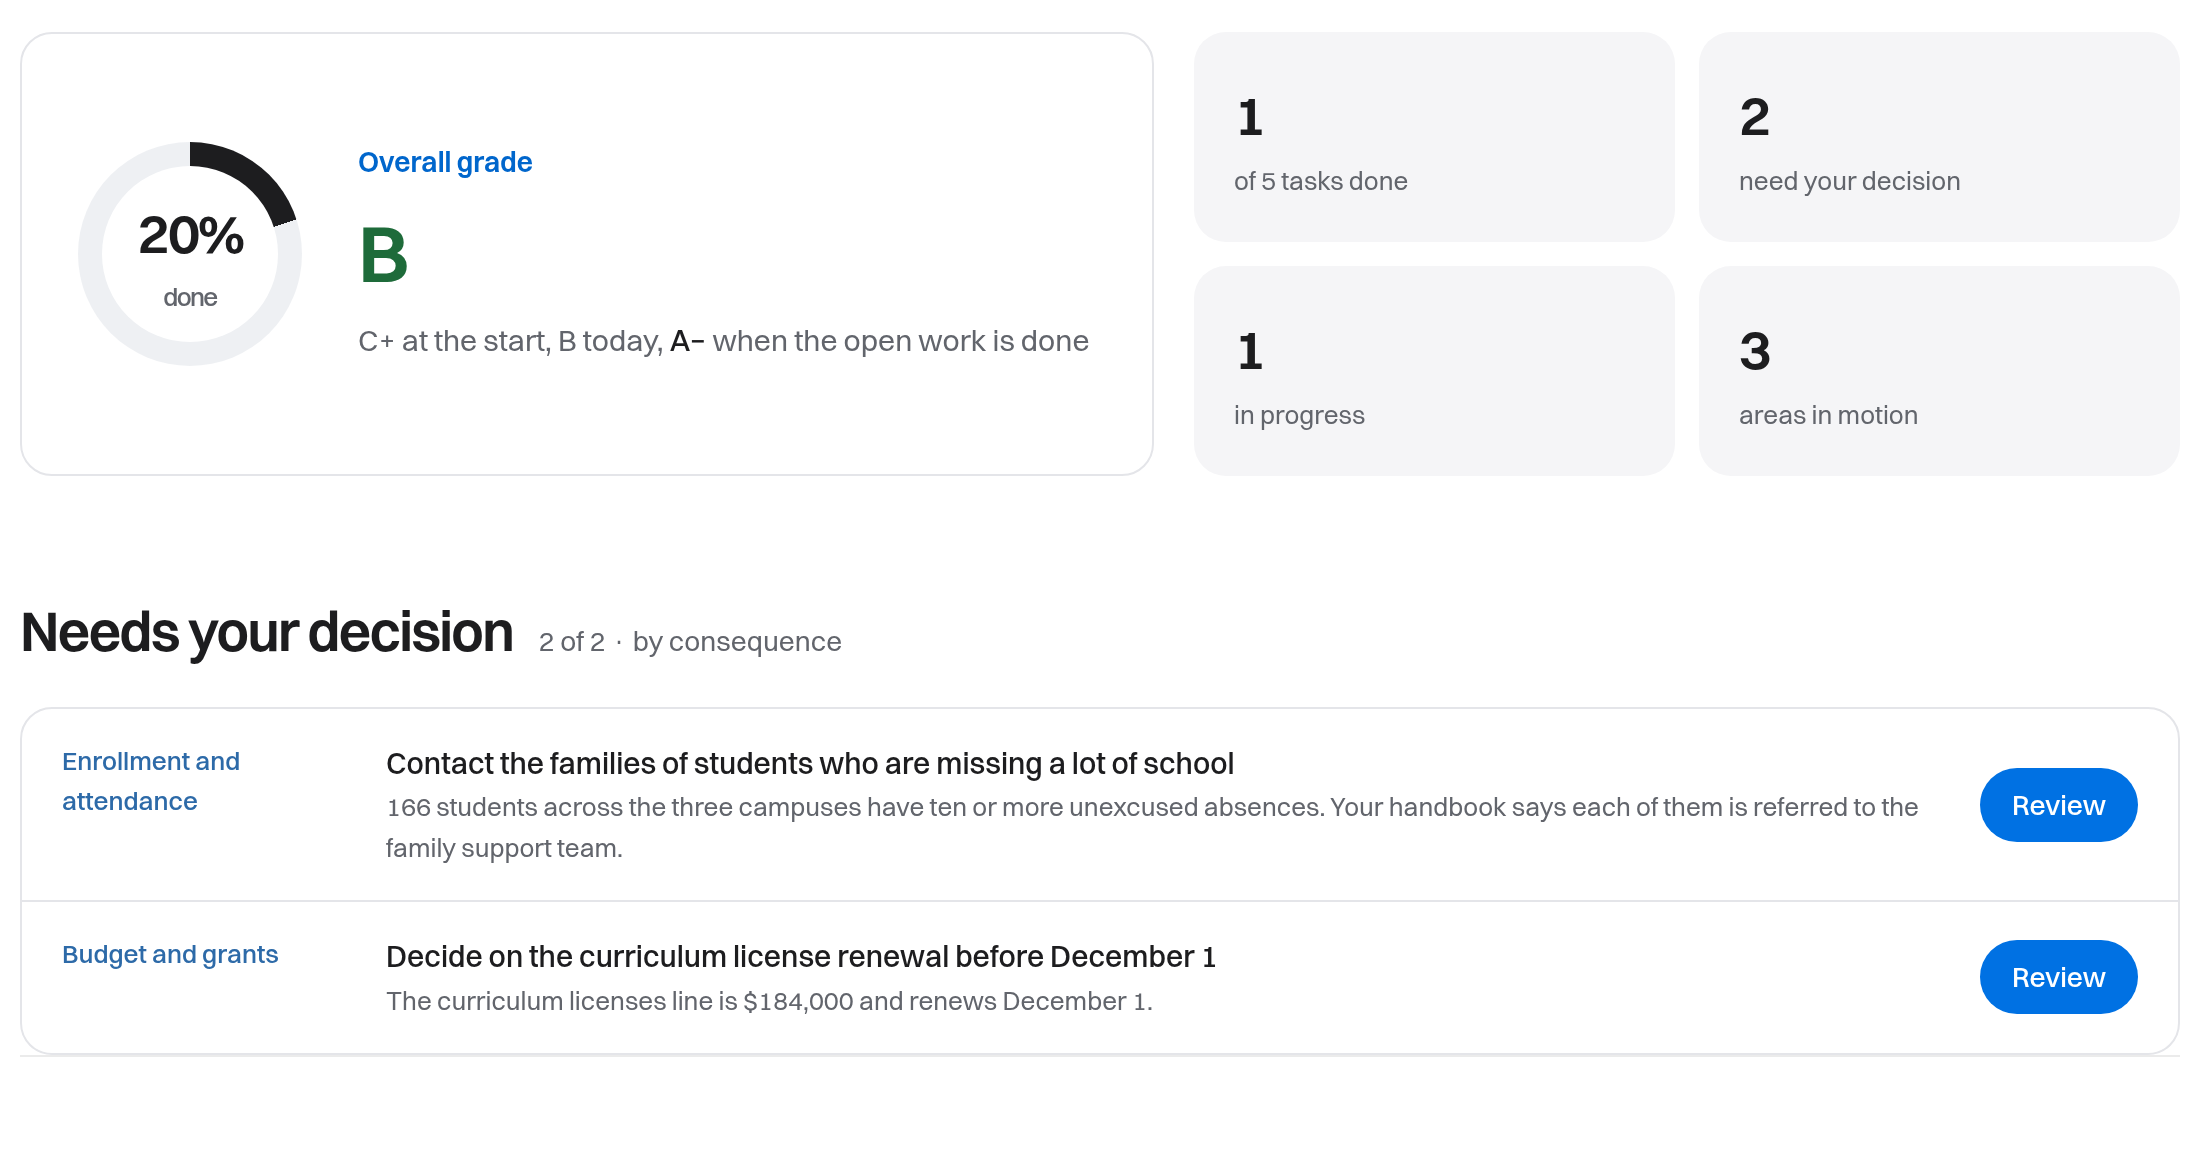
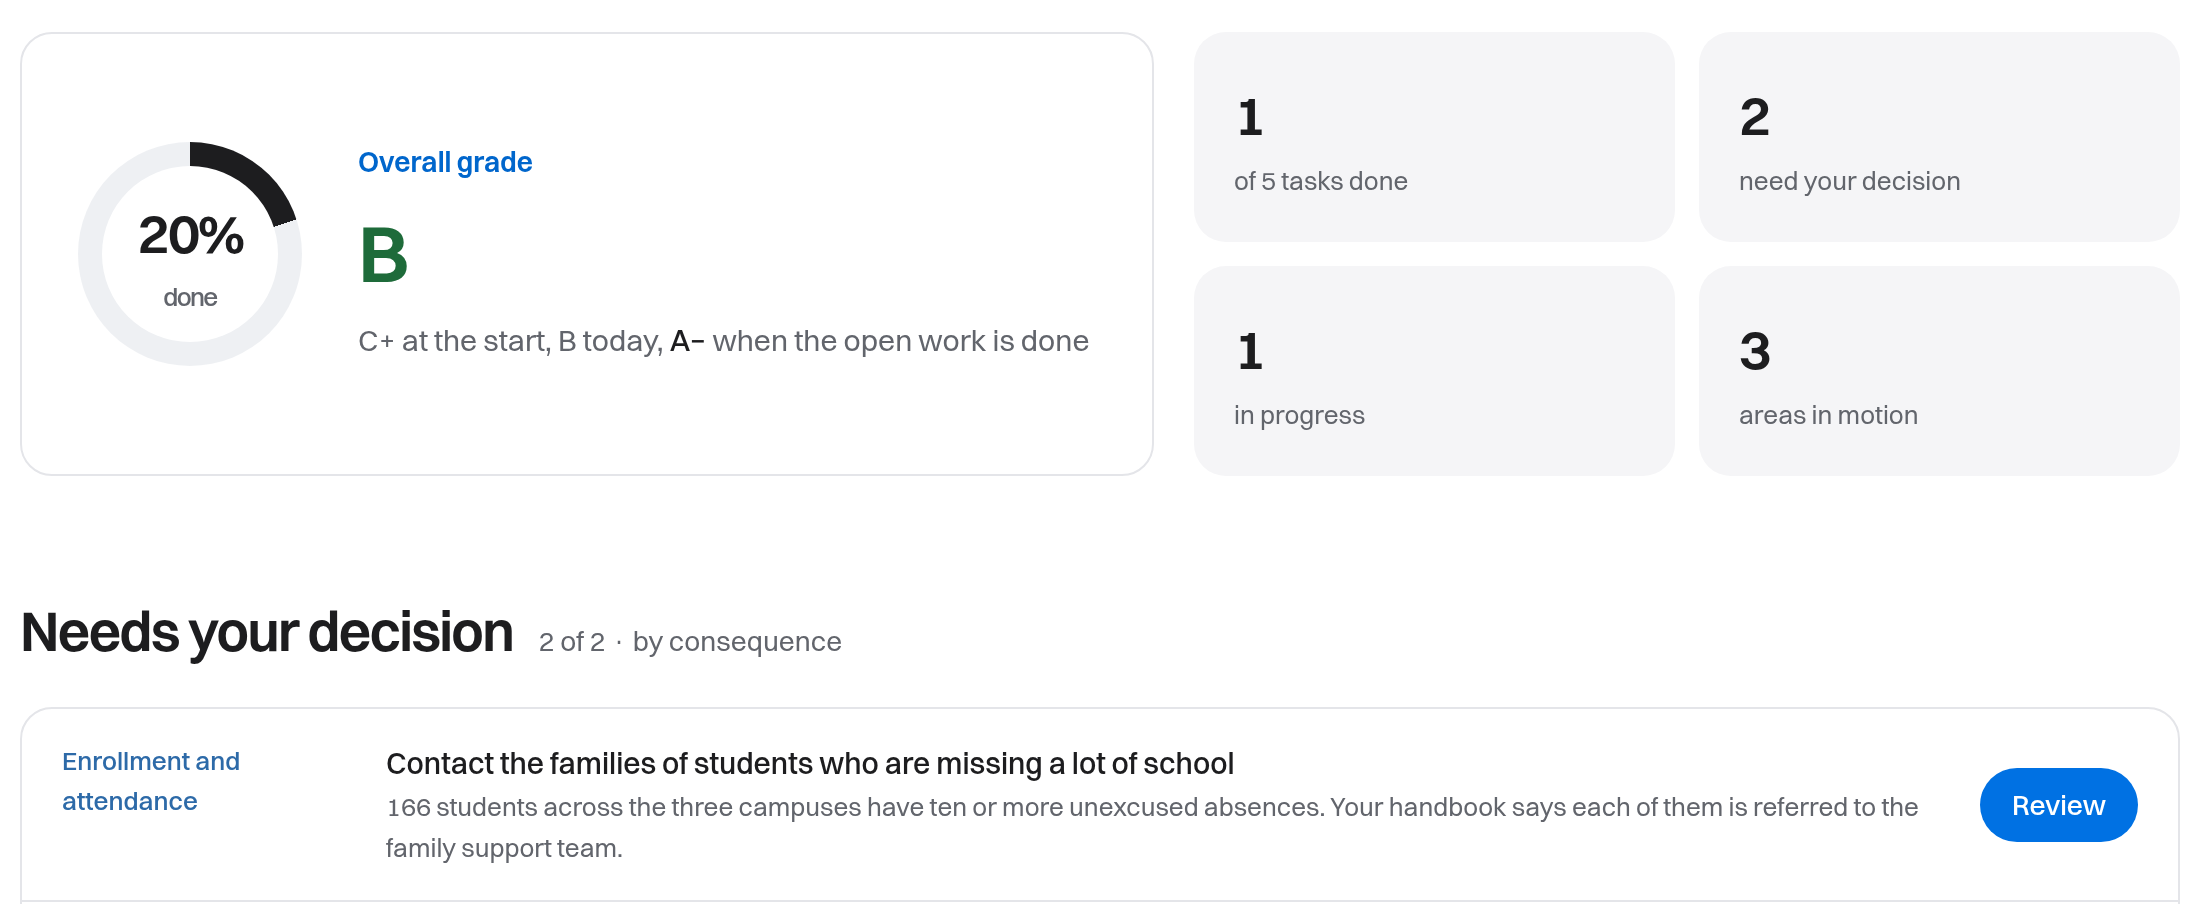
Operating system: crop the workstreams capture to the first decision

diff --git a/public/site/operating-system.html b/public/site/operating-system.html
@@ -5,7 +5,7 @@
 
 <section class="os-hub" aria-labelledby="hub-h"><div class="wrap"><h2 id="hub-h">Each system knows a part and Arthur holds the whole</h2><div class="os-hub-grid"><ul class="os-src" aria-label="Your systems"><li><b>CRM</b><span>Who the customer is</span></li><li><b>Billing</b><span>What they owe, and since when</span></li><li><b>Support desk</b><span>What is open with them</span></li><li><b>Contracts</b><span>When it renews, who owns it</span></li><li><b>Work orders and inventory</b><span>What is open, what is on hand</span></li></ul><div class="os-whole"><p class="os-whole-k">What Arthur holds</p><p class="answer">One customer, with its invoices, tickets, contract and open orders in one place, and the source behind each line.</p></div></div></div></section>
 
-<section class="system-section os-portal" id="system"><div class="wrap"><div class="section-heading"><h2>See what is moving and what needs you</h2><p>This is the Workstreams page in the client portal: an overall grade, the counts, and the decisions waiting for a person.</p></div><figure class="portal-shot native"><picture><source media="(max-width:700px)" srcset="/site/assets/portal/portal-workstreams-390.png" width="375" height="765"><img src="/site/assets/portal/portal-workstreams-2x.png" width="1095" height="585" alt="The Workstreams page of the LOVELEEDAY client portal, with an overall progress ring, a letter grade and counts of tasks done, in progress and waiting for a decision." loading="lazy"></picture><div class="ps-zoom" aria-hidden="true"><span>What needs you</span><p>Two decisions need you, listed by consequence. The overall grade has moved from C plus to B.</p><small>Workstreams page, example data</small></div><figcaption>The Workstreams page in the LOVELEEDAY client portal, as a charter network sees it. Every record in this workspace is demonstration data.</figcaption></figure></div></section>
+<section class="system-section os-portal" id="system"><div class="wrap"><div class="section-heading"><h2>See what is moving and what needs you</h2><p>This is the Workstreams page in the client portal: an overall grade, the counts, and the decisions waiting for a person.</p></div><figure class="portal-shot native"><picture><source media="(max-width:700px)" srcset="/site/assets/portal/portal-workstreams-390.png" width="375" height="765"><img src="/site/assets/portal/portal-workstreams-2x.png?v=b2" width="1095" height="452" alt="The Workstreams page of the LOVELEEDAY client portal, with an overall progress ring, a letter grade and counts of tasks done, in progress and waiting for a decision." loading="lazy"></picture><div class="ps-zoom" aria-hidden="true"><span>What needs you</span><p>Two decisions need you, listed by consequence. The overall grade has moved from C plus to B.</p><small>Workstreams page, example data</small></div><figcaption>The Workstreams page in the LOVELEEDAY client portal, as a charter network sees it. Every record in this workspace is demonstration data.</figcaption></figure></div></section>
 
 <section class="os-steps"><div class="wrap"><h2>From a record to a reason to act</h2><div class="os-rows"><article><h3>Connect the context</h3><p>Start with a defined set of sources and the people, organizations or items they describe.</p></article><article><h3>Build the evidence</h3><p>Recognize when two records are the same customer or supplier, keep every change, and remember where each fact came from.</p></article><article><h3>Focus the decision</h3><p>Get the answer in plain language, the records behind it, and anything that still needs your attention.</p></article></div><p class="os-kinds">Works across business records, communications, operational data and documents.</p></div></section>
 
